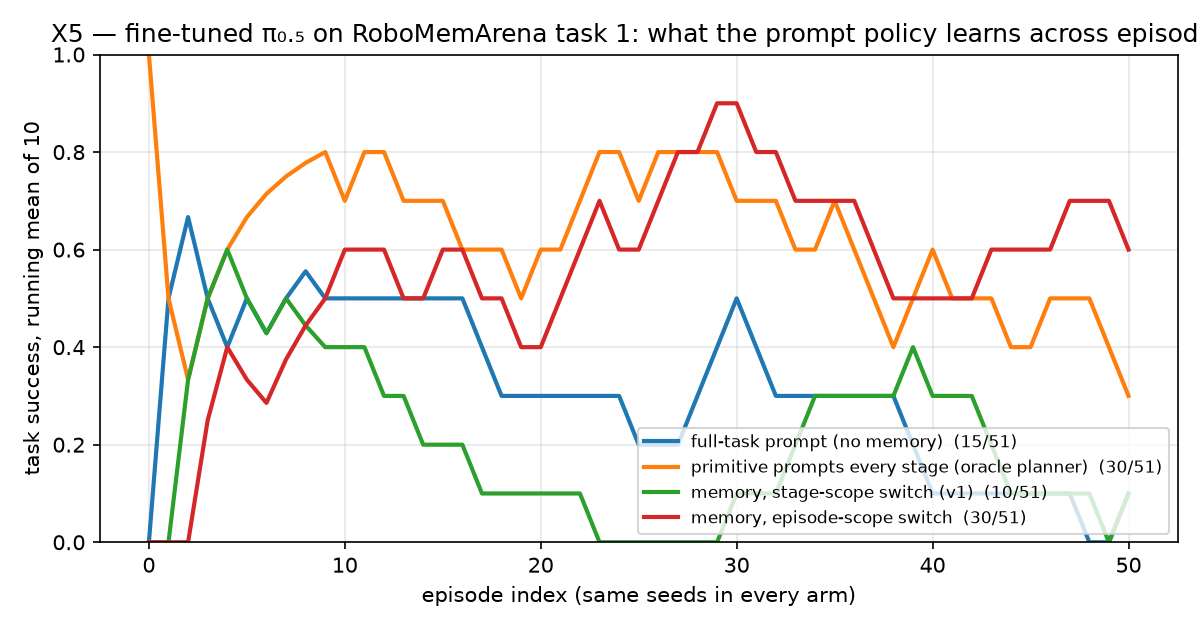
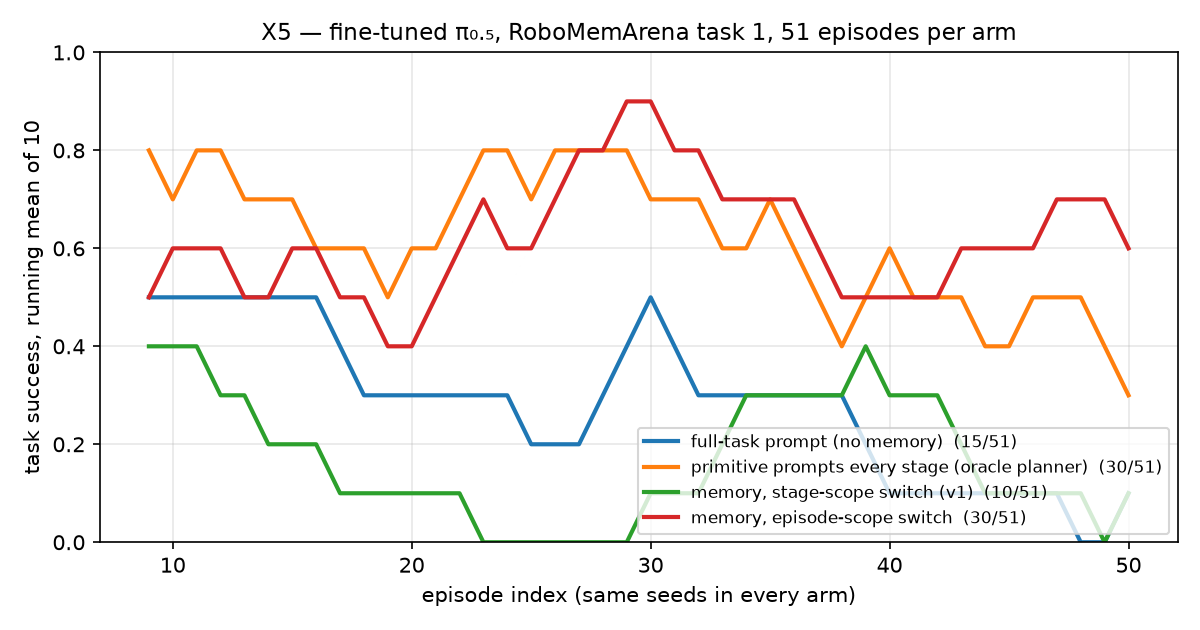
X5 figure: 10-episode window drawn from episode 9, shorter title
Claude-Session: https://claude.ai/code/session_019aywSpyZp8vdfDsYM3L59t

diff --git a/scripts/x5_analyze.py b/scripts/x5_analyze.py
@@ -49,10 +49,11 @@ def main():
         won = sum(1 for s in seeds if eps[s]["TSR"] > 0 and fixed[s]["TSR"] == 0)
         lost = sum(1 for s in seeds if eps[s]["TSR"] == 0 and fixed[s]["TSR"] > 0)
         print(f"{name:10s} {k:3d}/{n:<3d} {100*k/n:4.1f}% {100*lo:5.1f}–{100*hi:4.1f}% {csr:5.1f}% {s2:3d}/{n:<3d} {auc:5.2f}  {won:2d}/{lost:<2d}")
-        ax.plot(range(n), running(succ), label=f"{label}  ({k}/{n})", lw=2)
+        w = 10
+        ax.plot(range(w - 1, n), running(succ, w)[w - 1:], label=f"{label}  ({k}/{n})", lw=2)
     ax.set_xlabel("episode index (same seeds in every arm)"); ax.set_ylabel("task success, running mean of 10")
     ax.set_ylim(0, 1); ax.grid(alpha=.3); ax.legend(fontsize=8, loc="lower right")
-    ax.set_title("X5 — fine-tuned π₀.₅ on RoboMemArena task 1: what the prompt policy learns across episodes")
+    ax.set_title("X5 — fine-tuned π₀.₅, RoboMemArena task 1, 51 episodes per arm", fontsize=11)
     out = Path("docs/figures/x5_experience_curves.png"); out.parent.mkdir(parents=True, exist_ok=True)
     fig.tight_layout(); fig.savefig(out, dpi=150); print("wrote", out)
 
